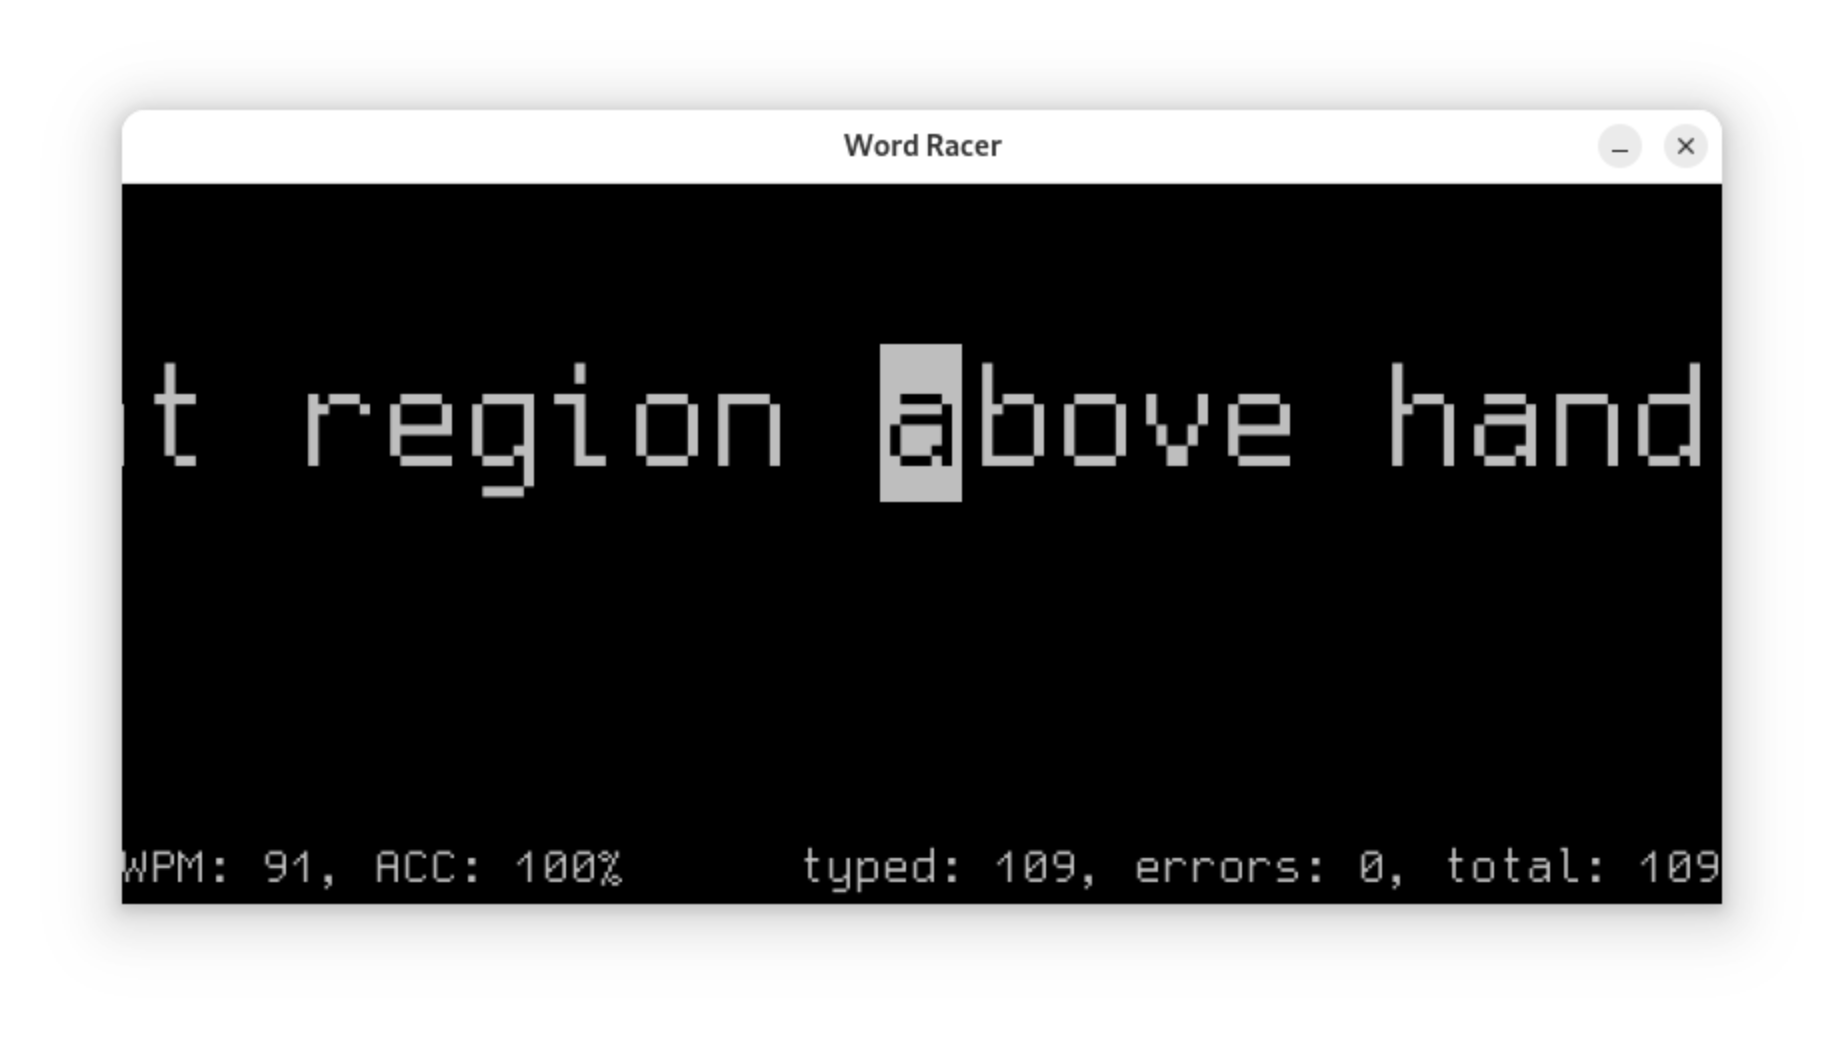
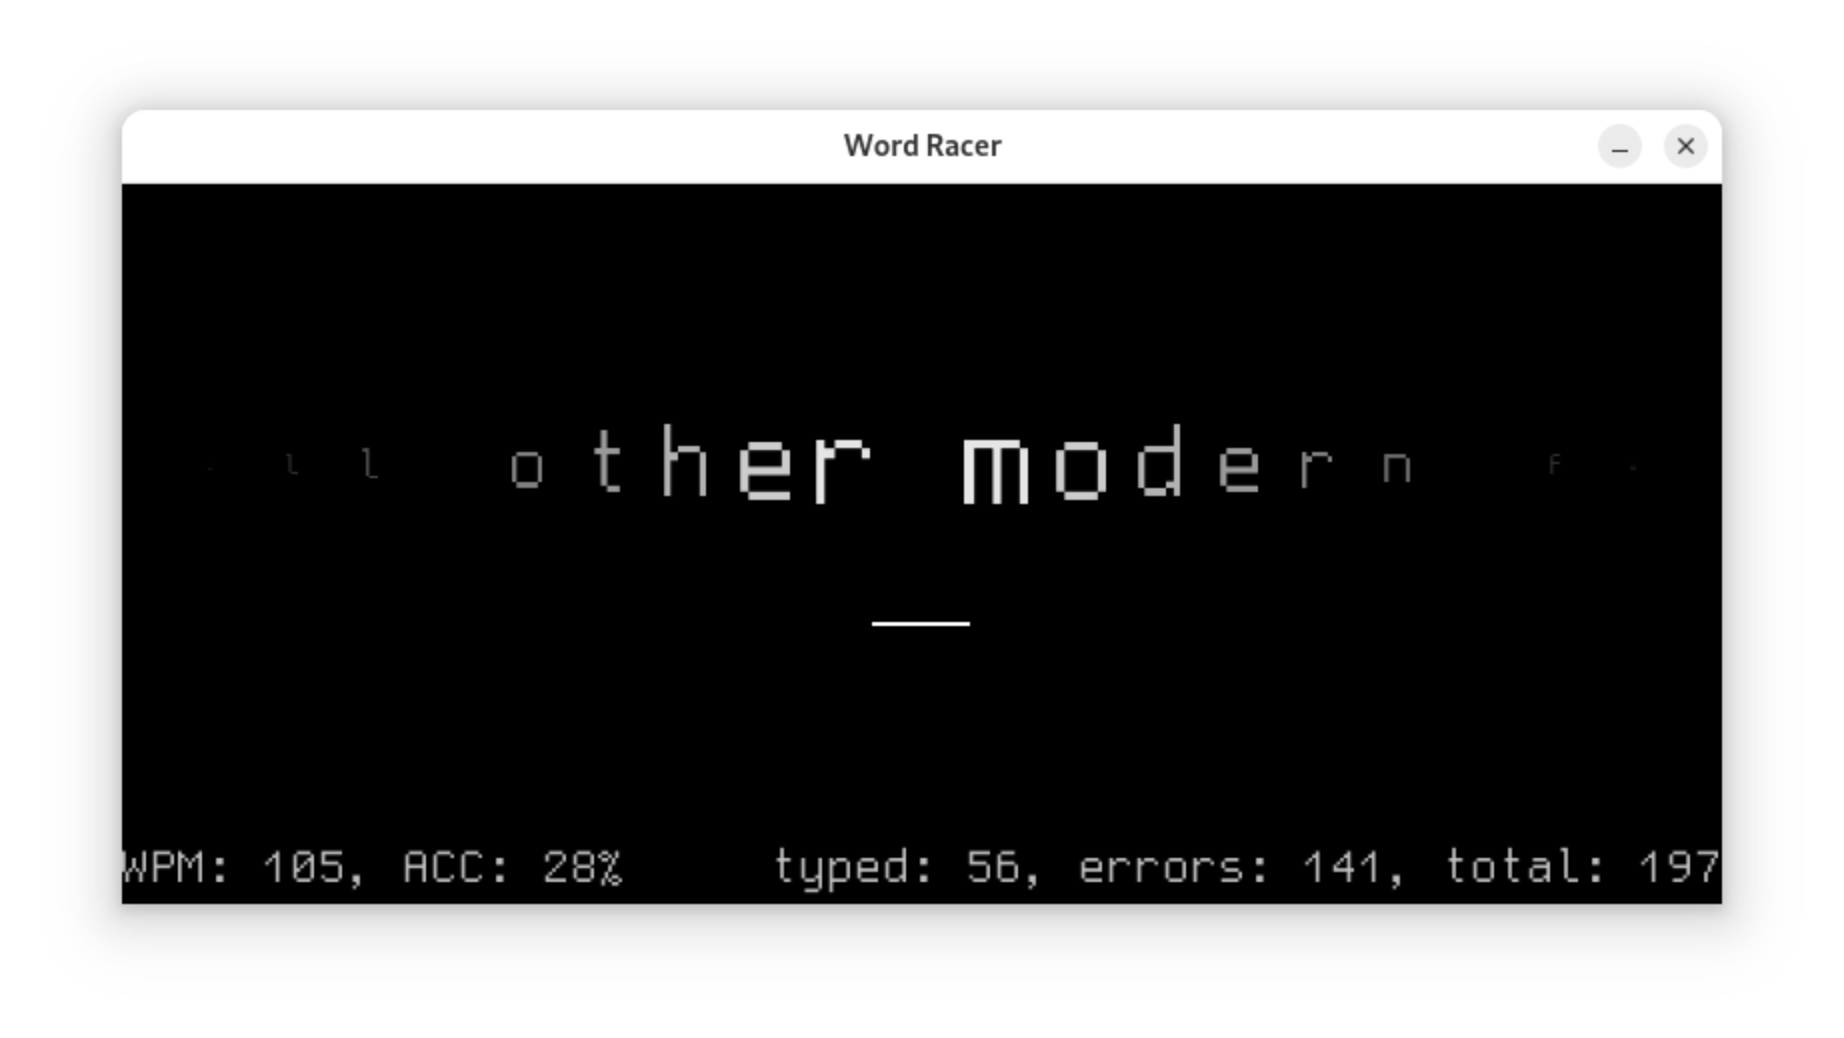
updated game to have spotlight effect

diff --git a/game.py b/game.py
@@ -11,11 +11,13 @@ WPM_AVG_CHARS = 4
 # Default test length
 WORD_COUNT = 25
 FONT_SIZE = 72
+SPOTLIGHT = 10
 
 CHARS = (
-    'ABCDEFGHIJKLMNOPQRSTUVWXYZ'
-    'abcdefghijklmnopqrstuvwxyz'
-    '1234567890!@#$%^&*()-=_+[]{}\\|;:\'",.<>/?'
+    'ABCDEFGHIJKLMNOPQRSTUVWXYZ'        # Upper letters
+    'abcdefghijklmnopqrstuvwxyz'        # Lower letters
+    '1234567890'                        # Numbers
+    '!@#$%^&*()-=_+[]{}\\|;:\'",.<>/?'  # Punctuation
 )
 
 WORDS = [
@@ -174,31 +176,26 @@ class Game:
             'Press any key to exit', True, 'green')
 
         if test_type == 'ascii':
-            self.keys = ' '.join([self._get_key() for _ in range(words)])
+            self.keys = [self._get_key() for _ in range(words)]
         elif test_type == 'word':
             self.keys = ' '.join([self._get_word() for _ in range(words)])
         else:
             raise ValueError('invalid test type. must be one of: word, ascii')
 
-    def is_running(self) -> bool:
-        return self.running
-
     def tick(self):
         e = pygame.event.poll()
         if e:
-            if e.type == pygame.QUIT:
+            if (e.type == pygame.QUIT
+                        or (e.type == pygame.KEYDOWN and self.typed == len(self.keys))
+                        or (e.type == pygame.KEYDOWN and e.key == 27)
+                    ):
                 self.running = False
-                return
-            elif e.type == pygame.KEYDOWN and self.typed == len(self.keys):
-                self.running = False
-                return
-            elif e.type != pygame.TEXTINPUT:
                 return
 
             if self.started == 1:
                 self.started = pygame.time.get_ticks()
 
-            if e.text == self.keys[self.index]:
+            if e.type == pygame.TEXTINPUT and e.text == self.keys[self.index]:
                 self._next_key()
             else:
                 self.errors = self.errors + 1
@@ -208,19 +205,36 @@ class Game:
 
     def _render(self):
         self.screen.fill("black")
-        lh = self.font.render(''.join(self.keys[0:self.index]), True, 'gray')
-        c = self.font.render(
-            ''.join(self.keys[self.index:self.index+1]), True, 'black', 'gray')
-        rh = self.font.render(''.join(self.keys[self.index+1:]), True, 'gray')
-        acc = (1 - self.errors/max(1, (self.typed + self.errors))) * 100
-        cx = self.width / 2
-        cw = c.get_width()/2
-        lw = lh.get_width()+cw
 
-        y = self.height / 3 - self.font.get_height()/2
-        self.screen.blit(lh, (cx - lw - 5, y))
-        self.screen.blit(c, (cx - cw, y))
-        self.screen.blit(rh, (cx + cw + 5, y))
+        acc = (1 - self.errors/max(1, (self.typed + self.errors))) * 100
+
+        cy = self.height / 2 - self.font.get_height()/2
+        cw = self.font.get_height()
+
+        for i in range(-SPOTLIGHT, SPOTLIGHT):
+            if self.index + i < 0 or self.index + i >= len(self.keys):
+                continue
+
+            cx = self.width / 2 + cw/2 * i
+            c = int(255 * ((SPOTLIGHT - abs(i)) / SPOTLIGHT))
+
+            fg = pygame.Color(c, c, c, 255)
+            bg = 'black'
+
+            ch = self.font.render(
+                self.keys[self.index + i], True, fg, bg)
+            sw = ch.get_width() * (SPOTLIGHT - abs(i)) / SPOTLIGHT
+            sh = ch.get_height() * (SPOTLIGHT - abs(i)) / SPOTLIGHT
+
+            ch = pygame.transform.scale(ch, (sw, sh))
+
+            x = cx - ch.get_width()/2
+            y = cy - ch.get_height()/2
+            self.screen.blit(ch, (x, y))
+        uw = self.font.get_height()/2 + 10
+        underline = pygame.Rect(
+            self.width/2-uw/2, self.height/2 + self.font.get_height()/2, uw, 2)
+        pygame.draw.rect(self.screen, 'white', underline)
 
         if self.wpm > 0:
             wpm = self.menu_ft.render('WPM: {}, ACC: {}%'.format(
@@ -287,5 +301,7 @@ if __name__ == '__main__':
 
     game = Game(test_type, length)
 
-    while game.is_running():
+    while game.running:
         game.tick()
+
+    pygame.quit()

diff --git a/README.md b/README.md
@@ -2,4 +2,5 @@
 
 A basic typing game designed for practicing your typing speed.
 
-![App demo](docs/screenshot.png)
+![Word test demo](doc/screenshot.png)
+![ASCII test demo](doc/screenshot.ascii.png)
